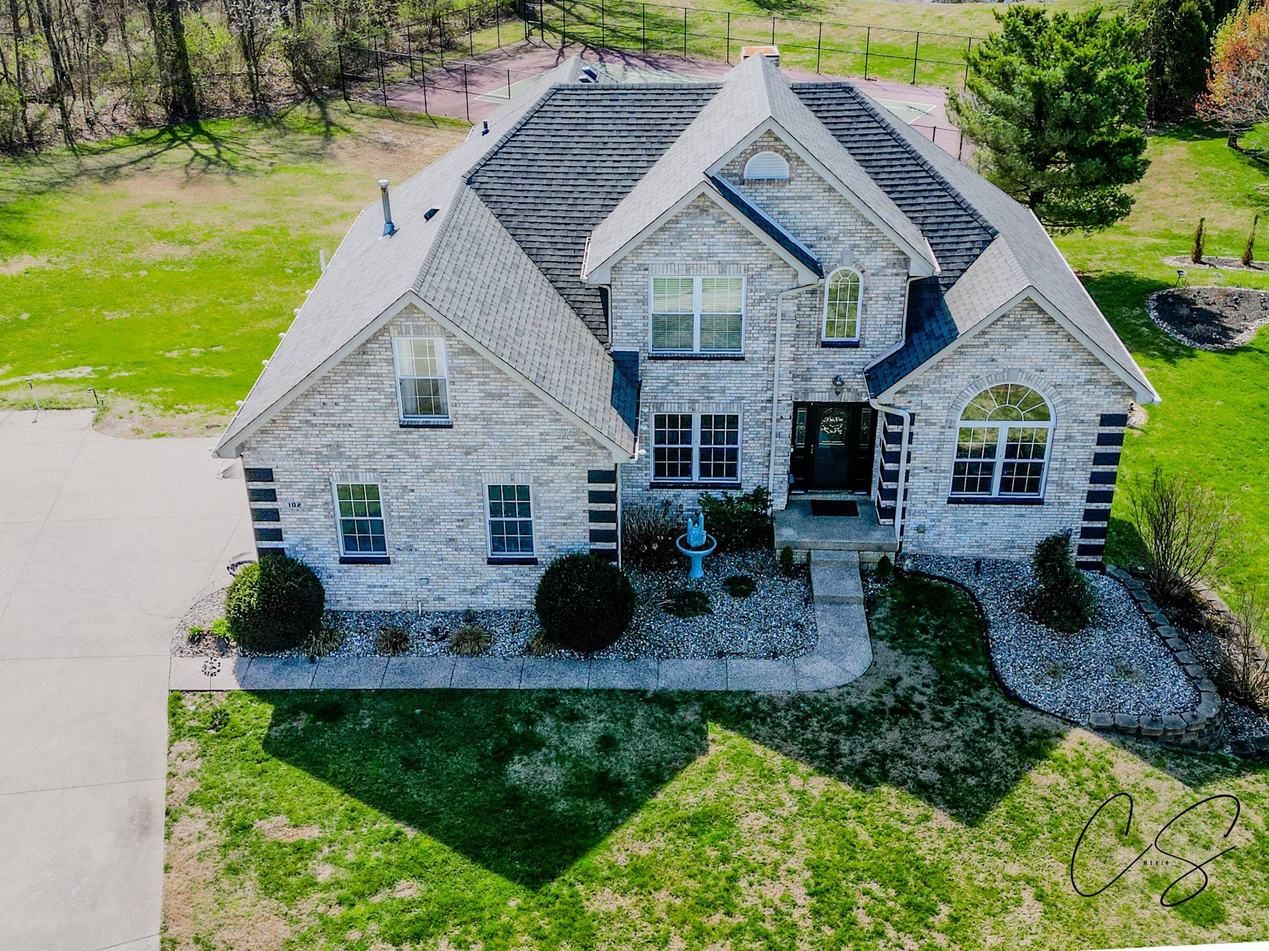
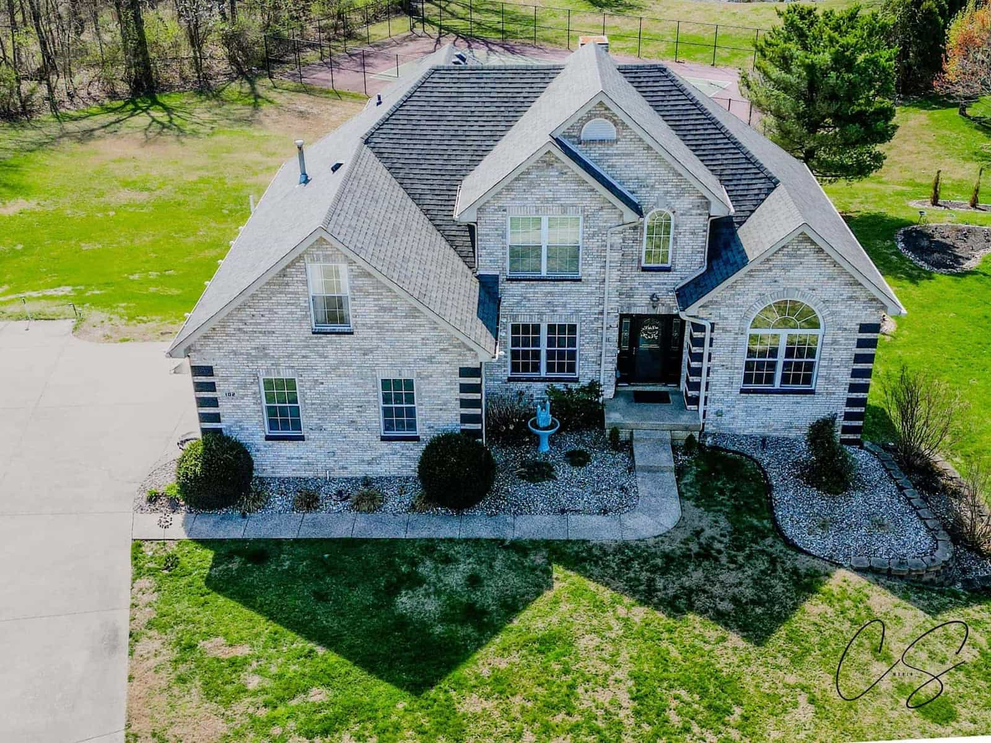
Improve SEO and compress images for better performance
- Add metadataBase, OG image, Twitter card, and siteName to layout
- Add missing metadata to contact page
- Block /admin/ and /auth/ in robots.txt
- Compress hero image (1002K → 253K) and home2 (365K → 129K)

diff --git a/app/layout.tsx b/app/layout.tsx
@@ -17,7 +17,10 @@ const geistMono = Geist_Mono({
   subsets: ["latin"],
 });
 
+const BASE_URL = process.env.NEXT_PUBLIC_SITE_URL || "https://csmedia.vercel.app";
+
 export const metadata: Metadata = {
+  metadataBase: new URL(BASE_URL),
   title: {
     default: "CS Media | Elevated Real Estate Media",
     template: "%s | CS Media",
@@ -30,6 +33,23 @@ export const metadata: Metadata = {
       "Professional drone photography, video, and editing services for real estate.",
     type: "website",
     locale: "en_US",
+    url: BASE_URL,
+    siteName: "CS Media",
+    images: [
+      {
+        url: "/images/aerialhome1.jpg",
+        width: 1200,
+        height: 630,
+        alt: "CS Media - Elevated Real Estate Media",
+      },
+    ],
+  },
+  twitter: {
+    card: "summary_large_image",
+    title: "CS Media | Elevated Real Estate Media",
+    description:
+      "Professional drone photography, video, and editing services for real estate.",
+    images: ["/images/aerialhome1.jpg"],
   },
   verification: {
     google: process.env.NEXT_PUBLIC_GOOGLE_SITE_VERIFICATION || "",

diff --git a/app/contact/page.tsx b/app/contact/page.tsx
@@ -1,7 +1,14 @@
+import type { Metadata } from "next";
 import FadeIn from "@/components/FadeIn";
 import ContactForm from "@/components/ContactForm";
 import { EditableText } from "@/components/inline-edit";
 import { getPageContent } from "@/lib/supabase/queries";
+
+export const metadata: Metadata = {
+  title: "Contact",
+  description:
+    "Book a drone photography or videography shoot with CS Media. Get in touch for real estate media services in Kentucky.",
+};
 
 export default async function ContactPage() {
   const [headerContent, sidebarContent, formContent] = await Promise.all([

diff --git a/app/robots.ts b/app/robots.ts
@@ -7,6 +7,7 @@ export default function robots(): MetadataRoute.Robots {
     rules: {
       userAgent: "*",
       allow: "/",
+      disallow: ["/admin/", "/auth/"],
     },
     sitemap: `${BASE_URL}/sitemap.xml`,
   };
